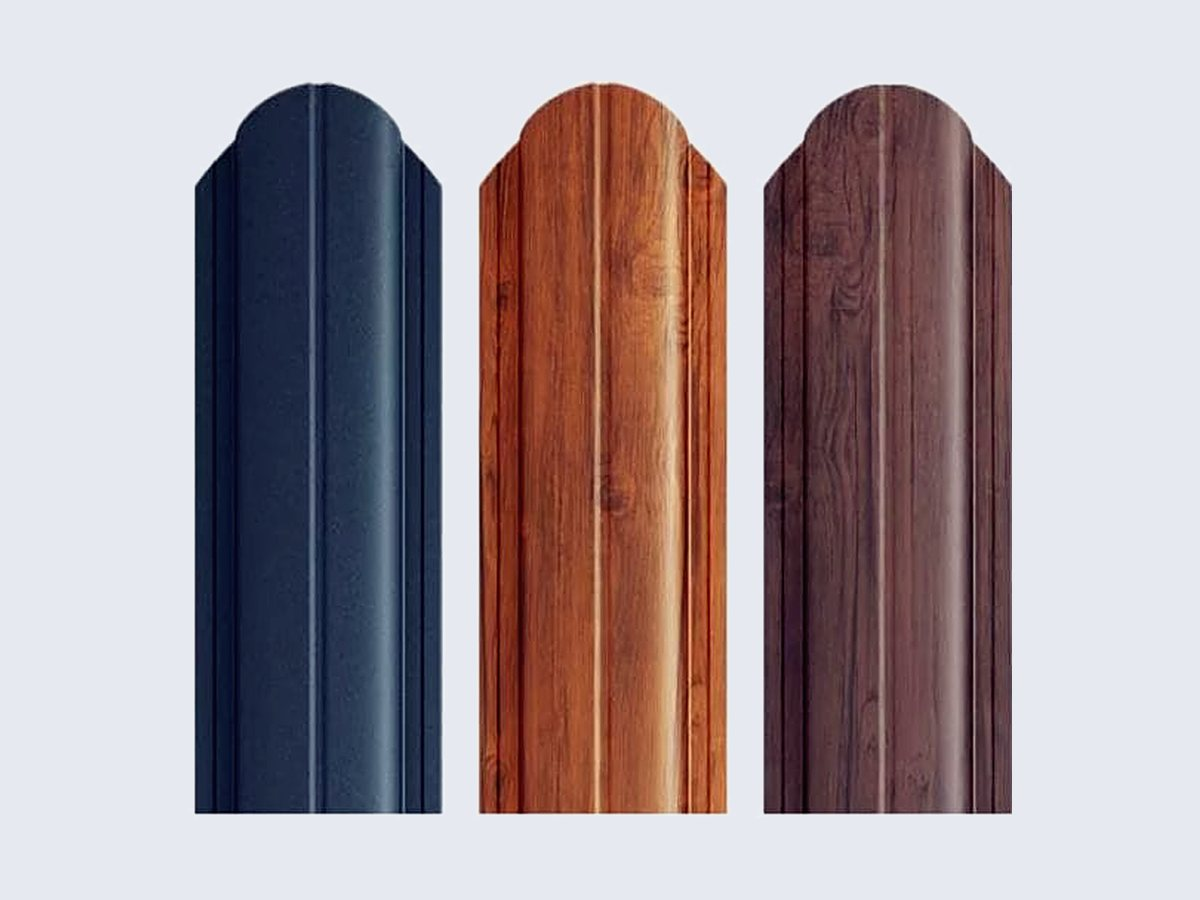
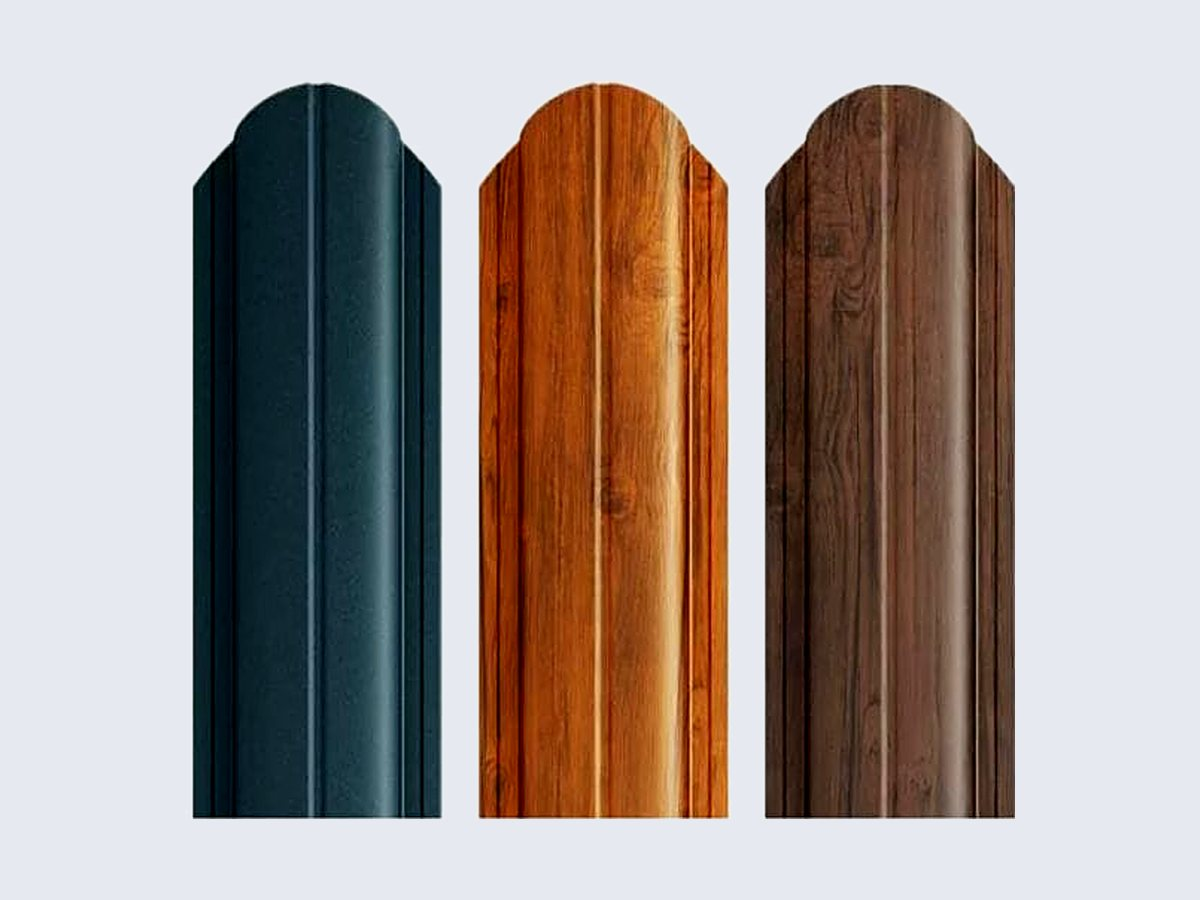
Фото разделов: комплектующие для ворот, композитная арматура; обе проволоки → «Металлопрокат»
- товар на белом/прозрачном фоне: без «стального» тона, автоконтраст с сохранением оттенка
- раздел «Проволока» пуст — скрыт в меню и каталоге

Claude-Session: https://claude.ai/code/session_01KQTv3aPm9oowziZCt8B42n

Changed region(s): [[0.4008, 0.0933, 0.8633, 0.9333], [0.1542, 0.0933, 0.37, 0.9333]]

diff --git a/scripts/category-photos.py b/scripts/category-photos.py
@@ -15,8 +15,11 @@ W, H = 1200, 900
 BG = (230, 234, 240)
 
 
-def grade(im):
-    im = ImageOps.autocontrast(im, cutoff=1)
+def grade(im, product=False):
+    im = ImageOps.autocontrast(im, cutoff=1, preserve_tone=True)
+    # Товар на белом фоне — цвет товара не трогаем (арматура жёлтая, штакетник под дерево)
+    if product:
+        return ImageEnhance.Contrast(im).enhance(1.04).filter(ImageFilter.UnsharpMask(radius=1.2, percent=60, threshold=2))
     im = ImageEnhance.Color(im).enhance(0.88)
     im = ImageEnhance.Contrast(im).enhance(1.06)
     # Нейтральный, чуть холодный тон «стали»: лёгкое смешение с серо-голубым
@@ -43,9 +46,15 @@ def main():
     for key, c in conf.items():
         if key.startswith('_'):
             continue
-        im = Image.open(os.path.join(DIR, 'src', c['src'])).convert('RGB')
+        im = Image.open(os.path.join(DIR, 'src', c['src']))
+        # Прозрачный фон (PNG) — на белый, дальше как товар на белом фоне
+        if im.mode in ('RGBA', 'LA', 'P'):
+            im = im.convert('RGBA')
+            white = Image.new('RGBA', im.size, (255, 255, 255, 255))
+            im = Image.alpha_composite(white, im)
+        im = im.convert('RGB')
         if c.get('fit') == 'pad':
-            out = pad(grade(im))
+            out = pad(grade(im, product=True))
         else:
             out = grade(im.crop(tuple(c['crop'])).resize((W, H), Image.LANCZOS))
         out.save(os.path.join(DIR, key + '.jpg'), 'JPEG', quality=84, optimize=True, progressive=True)

diff --git a/database/data/petrovich/scraper/bundle.py b/database/data/petrovich/scraper/bundle.py
@@ -82,7 +82,7 @@ for s,svc in zip(S,services):
 for c in cats.values():
     seg=c['path'][len(c['parent'])+1:] if c['parent'] else c['path']; c['slug_part']=tr(seg.replace('/','-'))
 # Решения заказчика по структуре: раздел → новый родитель
-MOVE={'provoloka/vyazalnya':'metalloprokat'}
+MOVE={'provoloka/vyazalnya':'metalloprokat','provoloka/dlya-natizheniya-setki':'metalloprokat'}
 for c in cats.values():
     if c['path'] in MOVE: c['parent']=MOVE[c['path']]
 json.dump({'source':'https://baza-petrovich.by','categories':sorted(cats.values(),key=lambda c:c['path']),'products':prods,'services':services},
